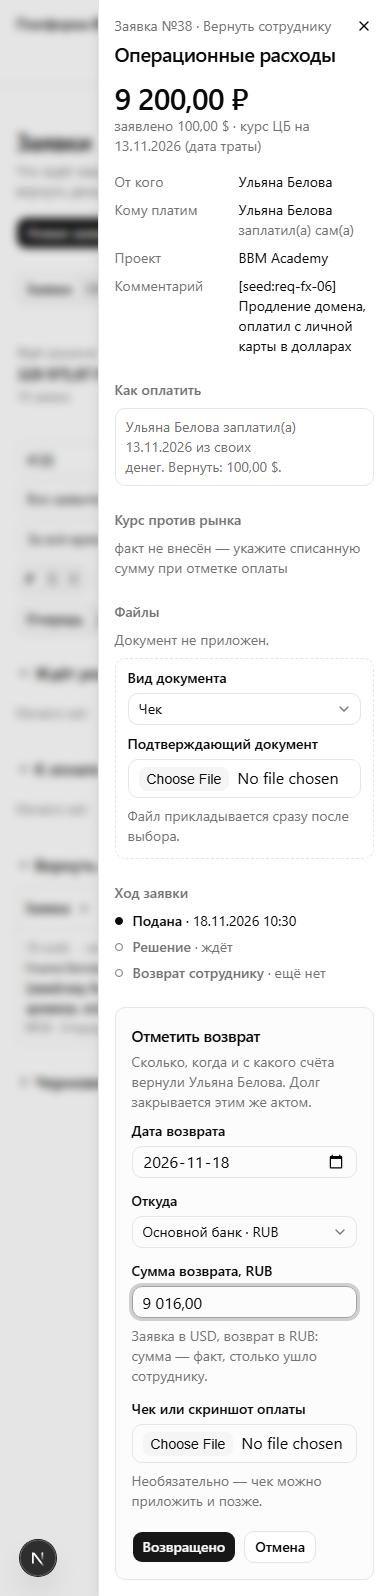
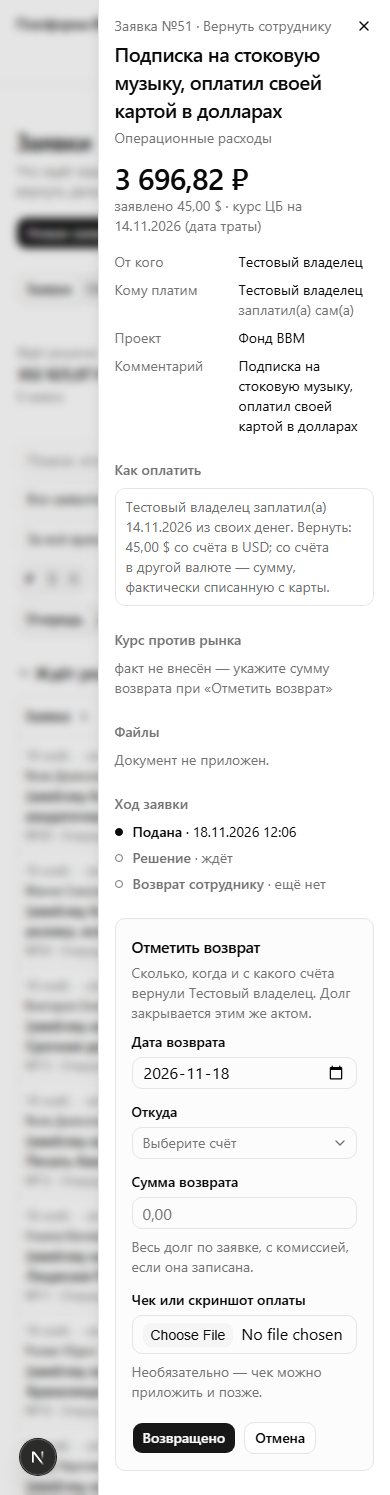
docs(evidence): #551 re-capture after the review of PR #564
Frames 01, 02, 04, 07, 13, 15 and 25 re-taken and 32–33 added by
recapture.ts on the live stand (minted session, stand-only data through
the API): the queue-row title, «Как оплатить» per stage, the refund in the
form's currency, one upload control, owner-facing refusals, the wrapping
bulk rows and «как возвращённые».

Claude-Session: https://claude.ai/code/session_01BCe8sBebYyhQncmry5GLEx

diff --git a/docs/evidence/551/recapture.ts b/docs/evidence/551/recapture.ts
@@ -1,0 +1,258 @@
+/**
+ * The #551 RE-CAPTURE after the review of PR #564 (S1–S3, UX 1–7).
+ *
+ * `capture.ts` ACTS on a freshly prepared stand in a fixed order; this script
+ * re-takes only the frames the review changed, on the stand as `capture.ts`
+ * left it, and acts only where a frame needs a refusal (which writes nothing).
+ * It signs in by minting the stand's own Auth.js cookie
+ * (`tests/e2e/support/platform-session.ts`): `AUTH_SECRET` is read from the
+ * process env, never written here.
+ *
+ * Usage: pnpm exec tsx docs/evidence/551/recapture.ts <baseURL> <outDir> [step…]
+ */
+import { appendFileSync, mkdirSync } from 'node:fs'
+
+import { chromium, type Locator, type Page } from '@playwright/test'
+
+import { signInAsPlatformMember } from '../../../tests/e2e/support/platform-session'
+
+const baseURL = process.argv[2] ?? 'http://localhost:3001'
+const outDir = process.argv[3] ?? '.playwright-mcp/551'
+const only = new Set(process.argv.slice(4))
+const want = (step: string) => only.size === 0 || only.has(step)
+mkdirSync(outDir, { recursive: true })
+
+const ROUTE = '/p/finance/requests'
+const VIEWPORTS = [
+  { name: 'desktop', width: 1440, height: 900 },
+  { name: 'phone', width: 390, height: 844 },
+] as const
+const APPROVER = {
+  email: process.env.E2E_ADMIN_EMAIL ?? 'bbm-test@bbm.local',
+  roles: ['platform-user', 'platform-admin', 'finance-approve', 'finance-entry'],
+}
+
+function note(line: string) {
+  appendFileSync(`${outDir}/findings.txt`, `${line}\n`)
+  console.log(line)
+}
+
+async function shoot(page: Page, name: string, themes: readonly string[] = ['light']) {
+  for (const viewport of VIEWPORTS) {
+    for (const theme of themes) {
+      await page.setViewportSize({ width: viewport.width, height: viewport.height })
+      await page.evaluate((value) => {
+        document.documentElement.classList.toggle('dark', value === 'dark')
+      }, theme)
+      await page.waitForTimeout(250)
+      // With a sheet open, grow the viewport to the sheet's scroll height.
+      const height = await page.evaluate(() => {
+        const sheet = document.querySelector('[role="dialog"]') as HTMLElement | null
+        return sheet === null ? 0 : sheet.scrollHeight
+      })
+      if (height > viewport.height) {
+        await page.setViewportSize({ width: viewport.width, height: height + 8 })
+        await page.waitForTimeout(250)
+      }
+      await page.screenshot({ path: `${outDir}/${name}--${viewport.name}--${theme}.png` })
+    }
+  }
+  await page.setViewportSize({ width: VIEWPORTS[0].width, height: VIEWPORTS[0].height })
+  await page.evaluate(() => document.documentElement.classList.remove('dark'))
+}
+
+async function openRequest(page: Page, id: number): Promise<Locator> {
+  await page.goto(`${ROUTE}?request=${id}`)
+  const dialog = page.getByRole('dialog')
+  await dialog.waitFor({ timeout: 90_000 })
+  return dialog
+}
+
+type Row = {
+  id: number
+  status: string
+  stage: string
+  currency: string
+  alreadyPaid: boolean
+  personalFunds: boolean
+  paidCurrency: string | null
+  note: string | null
+  hasDocument: boolean
+}
+
+const browser = await chromium.launch()
+const context = await browser.newContext({ baseURL, viewport: VIEWPORTS[0] })
+await signInAsPlatformMember(context, baseURL, APPROVER)
+const page = await context.newPage()
+const response = await context.request.get('/p/finance/api/requests')
+const rows = ((await response.json()) as { requests: Row[] }).requests
+const pick = (label: string, test: (row: Row) => boolean) => {
+  const row = rows.find(test)
+  note(`${label}: ${row === undefined ? 'none' : `#${row.id} (${row.stage}, ${row.currency})`}`)
+  return row
+}
+
+// The stand as `capture.ts` left it has no unpaid «К оплате» row and no USD
+// refund with its currency still open: one seeded request is approved, and a
+// member's USD card spend with no stated charge is filed (stand-only data).
+if (only.has('prepare')) {
+  const snapshot = (await (await context.request.get('/p/finance/api/requests')).json()) as {
+    references: { projects: { id: number }[]; purposes: { id: number; productBinding: string }[] }
+  }
+  for (const id of [6, 7]) {
+    if (!rows.some((row) => row.id === id && row.stage === 'decide')) continue
+    const approve = await context.request.post(`/p/finance/api/requests/${id}/actions`, {
+      data: { act: 'approve' },
+      headers: { origin: baseURL },
+    })
+    note(`approve #${id}: ${approve.status()}`)
+  }
+  if (rows.some((row) => row.note?.startsWith('Подписка на стоковую музыку'))) {
+    note('the USD personal-funds request is already filed')
+  } else {
+    const filed = await context.request.post('/p/finance/api/requests', {
+      headers: { origin: baseURL },
+      data: {
+        occurredOn: '2026-11-14',
+        accountId: null,
+        amount: '4500',
+        currency: 'USD',
+        paidAmount: null,
+        paidCurrency: null,
+        purposeId:
+          snapshot.references.purposes.find((row) => row.productBinding !== 'required')?.id ?? null,
+        purposeProposal: null,
+        projectId: snapshot.references.projects[0]!.id,
+        productId: null,
+        counterpartyId: null,
+        counterpartyName: 'Epidemic Sound',
+        note: 'Подписка на стоковую музыку, оплатил своей картой в долларах',
+        sourceRef: null,
+        alreadyPaid: true,
+        personalFunds: true,
+      },
+    })
+    note(`file USD personal-funds request: ${filed.status()} ${(await filed.text()).slice(0, 160)}`)
+  }
+}
+
+if (want('probe')) {
+  for (const row of rows) {
+    note(
+      `#${row.id} ${row.status}/${row.stage} ${row.currency} paid=${row.alreadyPaid} pf=${row.personalFunds} paidCur=${row.paidCurrency} doc=${row.hasDocument} note=${(row.note ?? '').slice(0, 40)}`,
+    )
+  }
+}
+
+// UX 4 — the sheet title is the queue row's line; UX 1 — no details warning once paid.
+if (want('stages')) {
+  const decide = pick('decide', (row) => row.stage === 'decide' && row.note !== null)
+  if (decide) {
+    await openRequest(page, decide.id)
+    await shoot(page, '01-sheet-decide-usd', ['light', 'dark'])
+  }
+  const missing = pick(
+    'pay, no details',
+    (row) => row.stage === 'pay' && !row.alreadyPaid && !row.personalFunds && !row.hasDocument,
+  )
+  if (missing) {
+    await openRequest(page, missing.id)
+    await shoot(page, '02-sheet-pay-missing-details')
+  }
+  const paid = pick(
+    'pay, already paid',
+    (row) => row.stage === 'pay' && row.alreadyPaid && !row.personalFunds,
+  )
+  if (paid) {
+    await openRequest(page, paid.id)
+    await shoot(page, '32-sheet-pay-already-paid')
+  }
+}
+
+// UX 5 + S3 — a USD personal-funds refund in the form's currency; «факт не внесён» → «Отметить возврат».
+if (want('reimburse')) {
+  const usd = pick(
+    'reimburse, USD, open refund currency',
+    (row) =>
+      row.stage === 'reimburse' &&
+      row.currency !== 'RUB' &&
+      row.paidCurrency === null &&
+      row.status !== 'posted',
+  )
+  if (usd) {
+    const dialog = await openRequest(page, usd.id)
+    await shoot(page, '04-sheet-reimburse', ['light', 'dark'])
+    await dialog.getByRole('button', { name: 'Отметить возврат' }).click()
+    await shoot(page, '13-form-reimburse-filled')
+  }
+}
+
+// UX 2 — one upload control while a payment form is open.
+if (want('pay-form')) {
+  const pay = pick(
+    'pay form, foreign currency',
+    (row) => row.stage === 'pay' && !row.personalFunds && row.currency !== 'RUB',
+  )
+  if (pay) {
+    const dialog = await openRequest(page, pay.id)
+    await dialog.getByRole('button', { name: 'Отметить оплату' }).click()
+    const pickers = await dialog.getByLabel('Подтверждающий документ').count()
+    note(`pay form open: «Подтверждающий документ» pickers = ${pickers}`)
+    await shoot(page, '07-form-mark-paid-cross-currency-empty')
+  }
+}
+
+// UX 7 — a refusal reaches the owner without spec codes, dates as ДД.ММ.ГГГГ.
+if (want('refusal')) {
+  const early = pick(
+    'pay, foreign currency, for the write-order refusal',
+    (row) => row.stage === 'pay' && row.currency !== 'RUB' && !row.personalFunds,
+  )
+  if (early) {
+    const dialog = await openRequest(page, early.id)
+    await dialog.getByRole('button', { name: 'Отметить оплату' }).click()
+    await dialog.getByLabel('Дата оплаты').fill('2026-07-01')
+    const account = dialog.getByRole('combobox', { name: 'Откуда' })
+    await account.click()
+    await page.getByRole('option', { name: /RUB/ }).first().click()
+    const debited = dialog.getByLabel(/Списано фактически/)
+    if ((await debited.count()) > 0) await debited.fill('1 000,00')
+    await dialog.getByRole('button', { name: 'Оплачено' }).click()
+    const alert = dialog.getByRole('alert')
+    await alert.waitFor({ timeout: 30_000 })
+    const text = (await alert.textContent()) ?? ''
+    note(`refusal shown: ${text}`)
+    note(
+      `refusal carries EARS codes = ${/EARS-/.test(text)}, ISO dates = ${/\d{4}-\d{2}-\d{2}/.test(text)}`,
+    )
+    await shoot(page, '15-refusal-fx-write-order')
+  }
+}
+
+// UX 3 + the reimburse label — the bulk preview at 390 px; cancel posts nothing.
+if (want('bulk')) {
+  await page.goto(ROUTE)
+  await page.getByRole('group', { name: 'Итоги очереди' }).waitFor({ timeout: 90_000 })
+  for (const [group, label, frame] of [
+    ['К оплате', /^Отметить все \d+ как оплаченные…$/, '25-bulk-preview'],
+    ['Вернуть сотруднику', /^Отметить все \d+ как возвращённые…$/, '33-bulk-reimburse-preview'],
+  ] as const) {
+    await page.goto(ROUTE)
+    await page.getByRole('group', { name: 'Итоги очереди' }).waitFor({ timeout: 90_000 })
+    const act = page.getByRole('region', { name: group }).getByRole('button', { name: label })
+    if ((await act.count()) === 0) {
+      note(`${group}: no bulk act (fewer than two rows)`)
+      continue
+    }
+    note(`${group}: bulk act «${await act.textContent()}»`)
+    await act.click()
+    const dialog = page.getByRole('dialog')
+    await dialog.getByRole('combobox', { name: 'Счёт пакета' }).click()
+    await page.getByRole('option', { name: /RUB/ }).first().click()
+    await dialog.getByRole('region', { name: 'Будет отмечено' }).waitFor({ timeout: 30_000 })
+    await shoot(page, frame, ['light', 'dark'])
+    await dialog.getByRole('button', { name: 'Отмена' }).click()
+  }
+}
+
+await browser.close()

diff --git a/docs/evidence/551/README.md b/docs/evidence/551/README.md
@@ -64,3 +64,31 @@ Also verified, not framed: Escape and the overlay close the sheet; cancelling
 the bulk dialog posts nothing (the «К оплате» rows keep their acts); #38's
 member liability postings are −9 016,00 and +9 016,00 in the one act, so the
 member's RUB balance is unchanged (SQL on `core.finance_posting`).
+
+## Re-capture after the review of PR #564 (2026-11-18)
+
+`recapture.ts` (this folder) re-took the frames the review changed, on the stand
+as `capture.ts` left it, signed in by a minted Auth.js session
+(`tests/e2e/support/platform-session.ts`, `AUTH_SECRET` from the env). Its
+`prepare` step added stand-only data through the API: #6 and #7 approved (an
+unpaid «К оплате» row with no details, and three rows for the bulk act), and
+#51 filed — a member's USD 45,00 card spend with no stated charge (the refund
+currency still open). The frames below REPLACE the earlier ones of the same
+number (they now show other requests where the earlier ones had been posted);
+32 and 33 are new.
+
+| Frame | State after the fixes                                                                                                                                                                                                                                |
+| ----- | ---------------------------------------------------------------------------------------------------------------------------------------------------------------------------------------------------------------------------------------------------- |
+| 01    | #8 «Ждёт решения»: the title is the queue row's line (the note's first line), the purpose under it (UX 4)                                                                                                                                            |
+| 02    | #6 «К оплате», unpaid, no details: the warning «Реквизитов или ссылки на оплату нет» — the one stage that still gets it (EARS-542)                                                                                                                   |
+| 32    | #36 «К оплате», already paid from the company account: «Уже оплачено 10.11.2026 — осталось отметить оплату», no details warning (EARS-542, UX 1)                                                                                                     |
+| 04    | #51 «Вернуть сотруднику», USD, refund currency open: «Вернуть: 45,00 $ со счёта в USD; со счёта в другой валюте — сумму, фактически списанную с карты»; §J «факт не внесён — укажите сумму возврата при «Отметить возврат»» (EARS-544/563, S3, UX 5) |
+| 13    | the same with «Отметить возврат» open: the files block hides its picker — the form's receipt is the one upload control (UX 2)                                                                                                                        |
+| 07    | #36 «Отметить оплату» open: one upload control (UX 2)                                                                                                                                                                                                |
+| 15    | the FX write-order refusal in the form: no EARS codes, dates as 01.07.2026 / 13.11.2026 (UX 7)                                                                                                                                                       |
+| 25    | the bulk preview on «К оплате»: rows wrap — №, the author's line, the date and the payee, the amount — nothing truncated at 390 px; the exclusion reason without codes (UX 3, UX 7)                                                                  |
+| 33    | «Вернуть сотруднику»: «Отметить все 3 как возвращённые…» and its preview; cancelled, nothing posted (EARS-547)                                                                                                                                       |
+
+S1 (a refused form remounts on the re-read row with fresh defaults and token)
+and S2 (a receipt failing after its act) are behaviours of the screen's state,
+pinned by `tests/unit/finance-requests-queue-ui.spec.ts`, not framed.
